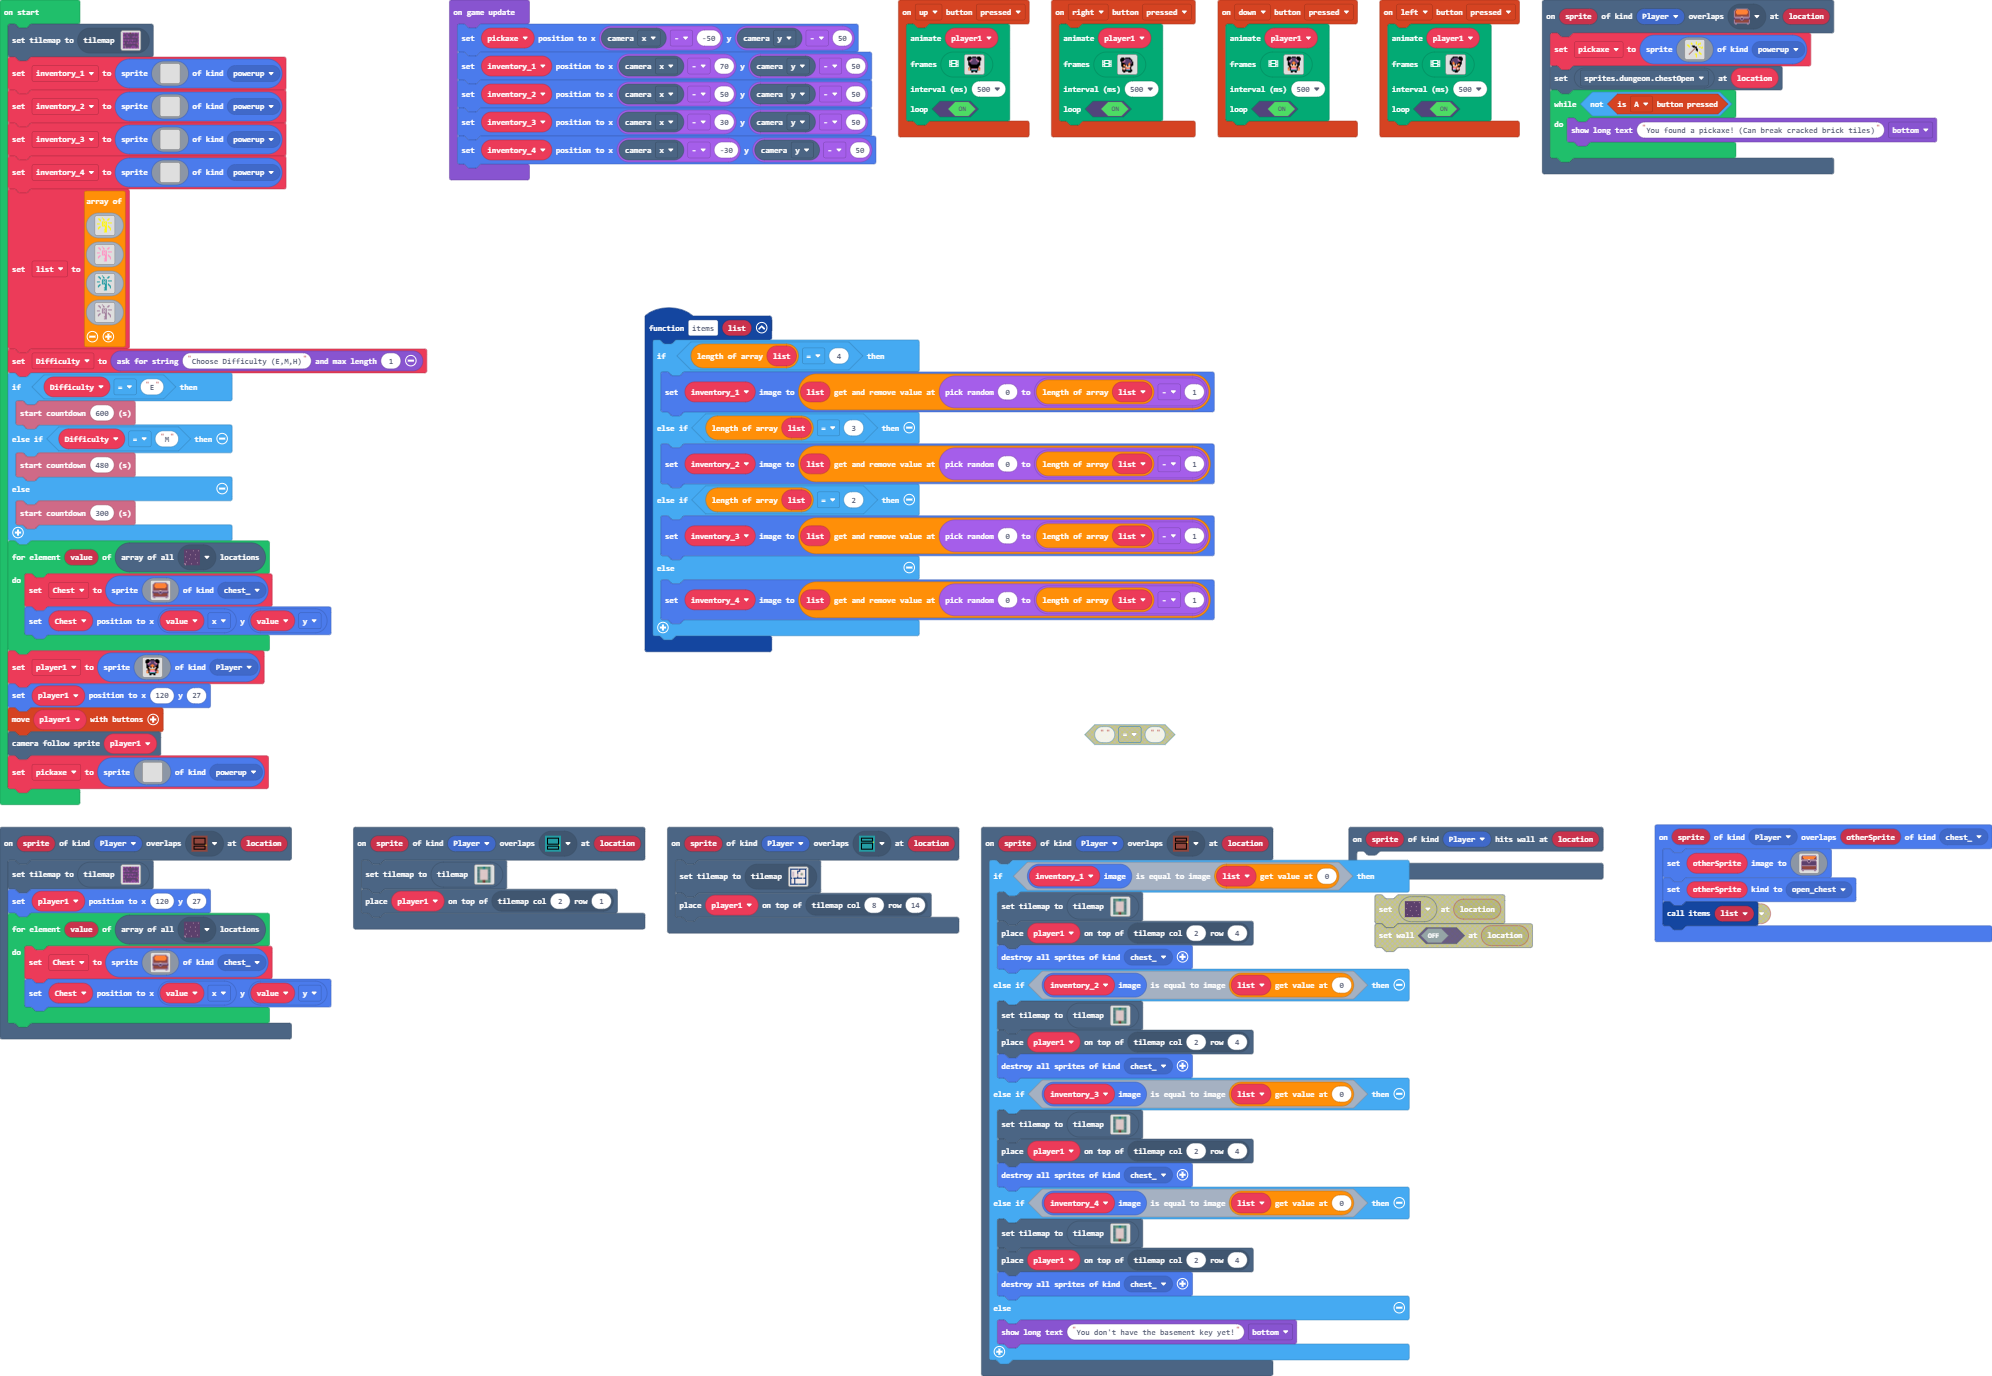
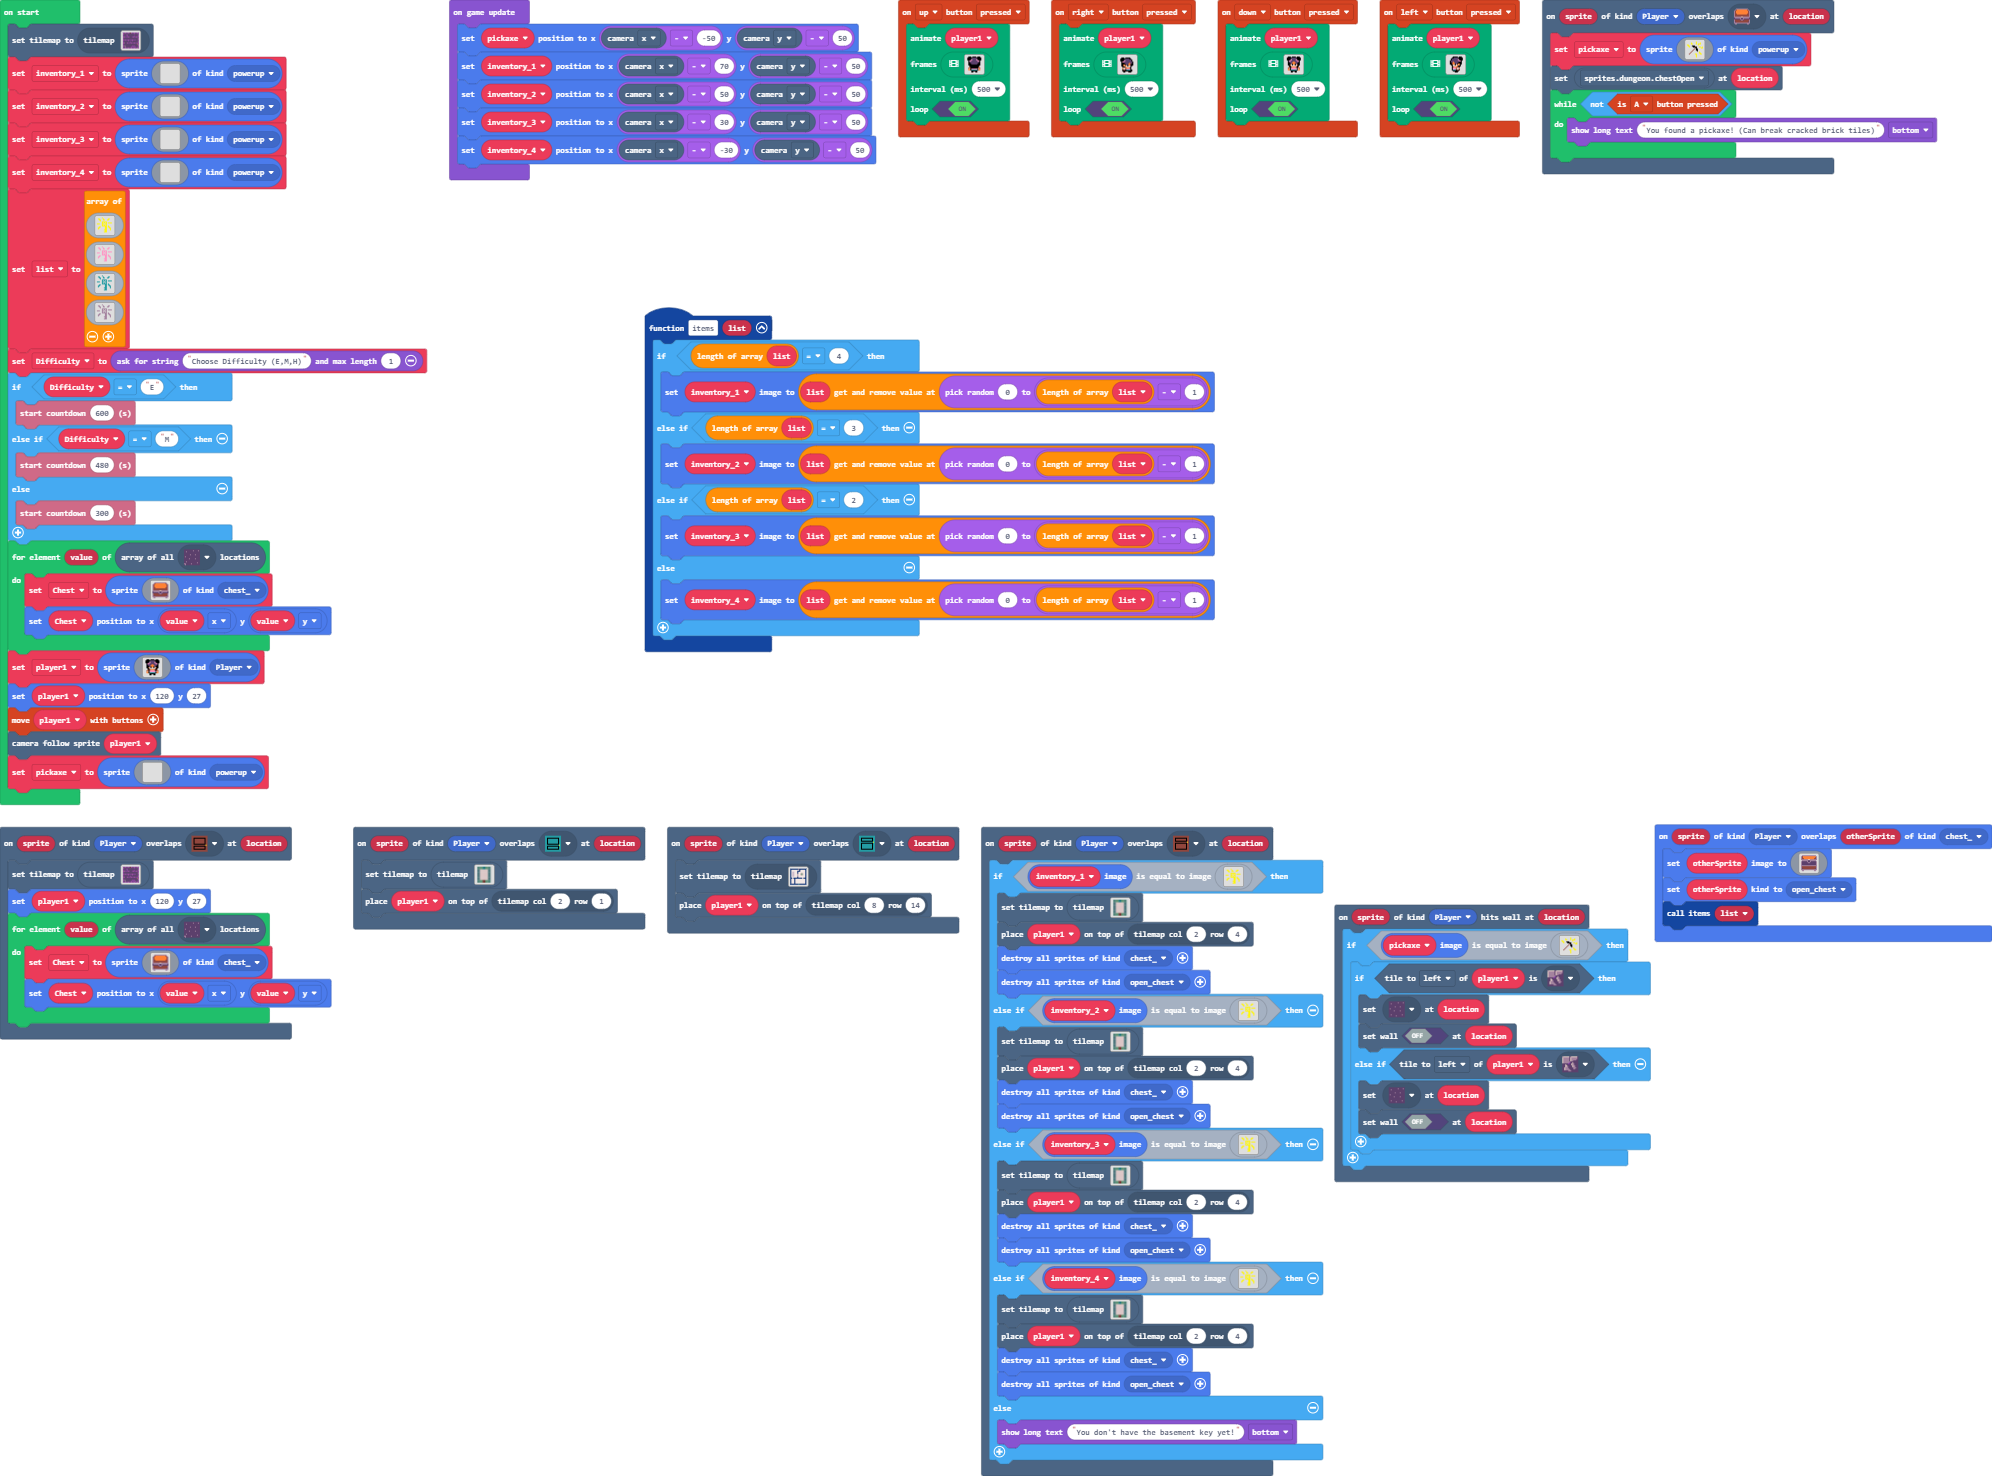
Update main.blocks, main.ts, tilemap.g.jres, tilemap.g.ts

Changed region(s): [[0.0, 0.0, 1.0, 1.0], [0.2179, 0.0, 0.9649, 0.1562], [0.3112, 0.1875, 0.6225, 0.5]]

diff --git a/tilemap.g.ts b/tilemap.g.ts
@@ -73,25 +73,6 @@ namespace myTiles {
 . . . . . . . . . . . . . . . . 
 . . . . . . . . . . . . . . . . 
 `, [myTiles.transparency16], TileScale.Sixteen);
-            case "level3":
[1 lines of base64/hex data omitted]
-2 2 2 2 2 2 2 2 . 2 2 2 2 2 2 2 
-2 . . . . . . . . 2 . . . . . 2 
-2 . . . . . . 2 2 2 . . . . . 2 
-2 . . . . . . 2 . . . . . . . 2 
-2 . . . . . . 2 . . 2 2 2 . . 2 
-2 . . . . . . 2 . . 2 2 2 . . 2 
-2 . . . . . . 2 . . 2 2 2 . . 2 
-2 . . . . . . 2 . . . . . . . 2 
-2 . . . . . . 2 . . . . . . . 2 
-2 2 . 2 2 2 2 2 2 2 2 2 . 2 2 2 
-2 . . . 2 . . . . . . . . . . 2 
-2 . . . 2 . . . . . . . . . . 2 
-2 . . . 2 . . . . . . . . . . 2 
-2 . . . 2 . . . . . . . . . . 2 
-2 . . . 2 . . . . . . . . . . 2 
-2 2 2 2 2 2 2 2 . 2 2 2 2 2 2 2 
-`, [myTiles.transparency16,myTiles.tile5,myTiles.tile6,myTiles.tile9,myTiles.tile10,sprites.dungeon.floorLight3,sprites.dungeon.floorLight2,myTiles.tile3,myTiles.tile12,myTiles.tile13,myTiles.tile14,myTiles.tile15,sprites.builtin.forestTiles0], TileScale.Sixteen);
             case "level6":
             case "level6":return tiles.createTilemap(hex`1000100000000000000000000000000000000000000000000000000000000000000000000000000000000000000000000000000000000000000000000000000000000000000000000000000000000000000000000000000000000000000000000000000000000000000000000000000000000000000000000000000000000000000000000000000000000000000000000000000000000000000000000000000000000000000000000000000000000000000000000000000000000000000000000000000000000000000000000000000000000000000000000000000000000000000000000000000000000000000000000000000000000000000000000000000000000000`, img`
 . . . . . . . . . . . . . . . . 
@@ -272,63 +253,25 @@ namespace myTiles {
 . . . . . . . . . . . . . . . . 
 . . . . . . . . . . . . . . . . 
 `, [myTiles.transparency16], TileScale.Sixteen);
-            case "level14":
-            case "level14":return tiles.createTilemap(hex`1000100000000000000000000000000000000000000000000000000000000000000000000000000000000000000000000000000000000000000000000000000000000000000000000000000000000000000000000000000000000000000000000000000000000000000000000000000000000000000000000000000000000000000000000000000000000000000000000000000000000000000000000000000000000000000000000000000000000000000000000000000000000000000000000000000000000000000000000000000000000000000000000000000000000000000000000000000000000000000000000000000000000000000000000000000000000000`, img`
-. . . . . . . . . . . . . . . . 
-. . . . . . . . . . . . . . . . 
-. . . . . . . . . . . . . . . . 
-. . . . . . . . . . . . . . . . 
-. . . . . . . . . . . . . . . . 
-. . . . . . . . . . . . . . . . 
-. . . . . . . . . . . . . . . . 
-. . . . . . . . . . . . . . . . 
-. . . . . . . . . . . . . . . . 
-. . . . . . . . . . . . . . . . 
-. . . . . . . . . . . . . . . . 
-. . . . . . . . . . . . . . . . 
-. . . . . . . . . . . . . . . . 
-. . . . . . . . . . . . . . . . 
-. . . . . . . . . . . . . . . . 
-. . . . . . . . . . . . . . . . 
-`, [myTiles.transparency16], TileScale.Sixteen);
-            case "level15":
-            case "level15":return tiles.createTilemap(hex`1000100000000000000000000000000000000000000000000000000000000000000000000000000000000000000000000000000000000000000000000000000000000000000000000000000000000000000000000000000000000000000000000000000000000000000000000000000000000000000000000000000000000000000000000000000000000000000000000000000000000000000000000000000000000000000000000000000000000000000000000000000000000000000000000000000000000000000000000000000000000000000000000000000000000000000000000000000000000000000000000000000000000000000000000000000000000000`, img`
-. . . . . . . . . . . . . . . . 
-. . . . . . . . . . . . . . . . 
-. . . . . . . . . . . . . . . . 
-. . . . . . . . . . . . . . . . 
-. . . . . . . . . . . . . . . . 
-. . . . . . . . . . . . . . . . 
-. . . . . . . . . . . . . . . . 
-. . . . . . . . . . . . . . . . 
-. . . . . . . . . . . . . . . . 
-. . . . . . . . . . . . . . . . 
-. . . . . . . . . . . . . . . . 
-. . . . . . . . . . . . . . . . 
-. . . . . . . . . . . . . . . . 
-. . . . . . . . . . . . . . . . 
-. . . . . . . . . . . . . . . . 
-. . . . . . . . . . . . . . . . 
-`, [myTiles.transparency16], TileScale.Sixteen);
-            case "level16":
-            case "level16":return tiles.createTilemap(hex`1000100000000000000000000000000000000000000000000000000000000000000000000000000000000000000000000000000000000000000000000000000000000000000000000000000000000000000000000000000000000000000000000000000000000000000000000000000000000000000000000000000000000000000000000000000000000000000000000000000000000000000000000000000000000000000000000000000000000000000000000000000000000000000000000000000000000000000000000000000000000000000000000000000000000000000000000000000000000000000000000000000000000000000000000000000000000000`, img`
-. . . . . . . . . . . . . . . . 
-. . . . . . . . . . . . . . . . 
-. . . . . . . . . . . . . . . . 
-. . . . . . . . . . . . . . . . 
-. . . . . . . . . . . . . . . . 
-. . . . . . . . . . . . . . . . 
-. . . . . . . . . . . . . . . . 
-. . . . . . . . . . . . . . . . 
-. . . . . . . . . . . . . . . . 
-. . . . . . . . . . . . . . . . 
-. . . . . . . . . . . . . . . . 
-. . . . . . . . . . . . . . . . 
-. . . . . . . . . . . . . . . . 
-. . . . . . . . . . . . . . . . 
-. . . . . . . . . . . . . . . . 
-. . . . . . . . . . . . . . . . 
-`, [myTiles.transparency16], TileScale.Sixteen);
+            case "level3":
[1 lines of base64/hex data omitted]
+2 2 2 2 2 2 2 2 . 2 2 2 2 2 2 2 
+2 . . . . . . . . 2 . . . . . 2 
+2 . . . . . . 2 2 2 . . . . . 2 
+2 . . . . . . 2 . . . . . . . 2 
+2 . . . . . . 2 . . 2 2 2 . . 2 
+2 . . . . . . 2 . . 2 2 2 . . 2 
+2 . . . . . . 2 . . 2 2 2 . . 2 
+2 . . . . . . 2 . . . . . . . 2 
+2 . . . . . . 2 . . . . . . . 2 
+2 2 . 2 2 2 2 2 2 2 2 2 . 2 2 2 
+2 . . . 2 . . . . . . . . . . 2 
+2 . . . 2 . . . . . . . . . . 2 
+2 . . . 2 . . . . . . . . . . 2 
+2 . . . 2 . . . . . . . . . . 2 
+2 . . . 2 . . . . . . . . . . 2 
+2 2 2 2 2 2 2 2 . 2 2 2 2 2 2 2 
+`, [myTiles.transparency16,myTiles.tile5,myTiles.tile6,myTiles.tile9,myTiles.tile10,sprites.dungeon.floorLight2,myTiles.tile3,myTiles.tile12,myTiles.tile13,myTiles.tile14,myTiles.tile15,sprites.builtin.forestTiles0,sprites.dungeon.floorLight3], TileScale.Sixteen);
         }
         return null;
     })

diff --git a/main.ts b/main.ts
@@ -88,25 +88,122 @@ controller.up.onEvent(ControllerButtonEvent.Pressed, function () {
     )
 })
 scene.onHitWall(SpriteKind.Player, function (sprite, location) {
-	
+    if (pickaxe.image.equals(img`
+        . . . . . . . . . 5 . . . . . . 
+        . . . . 5 . . . . 5 . . . 5 . . 
+        . . . . 5 5 . . . 5 . 5 5 5 . . 
+        5 5 . . . . . . . . . 5 . . . . 
+        . 5 5 . . f f f . . . . . . . . 
+        . . 5 . . . f f f f . . 5 5 . 5 
+        . . . . . . . . e f . . . . 5 5 
+        . . . . . . . e . f f . . . . . 
+        . . . . . . e . . f f . . . . . 
+        . . . . . e . . . . f . . . . . 
+        . . . . e . . . . . . . 5 . . . 
+        . . . e . . . . . . . . 5 5 . . 
+        . . e . . . . . 5 5 . . . 5 5 . 
+        . . . . . . . . . 5 . . . . . . 
+        . . . . . . . . . 5 . . . . . . 
+        . . . . . . . . . 5 . . . . . . 
+        `)) {
+        if (player1.tileKindAt(TileDirection.Left, sprites.dungeon.floorDark3)) {
+            tiles.setTileAt(location, sprites.dungeon.darkGroundCenter)
+            tiles.setWallAt(location, false)
+        } else if (player1.tileKindAt(TileDirection.Left, sprites.dungeon.floorDark3)) {
+            tiles.setTileAt(location, sprites.dungeon.darkGroundCenter)
+            tiles.setWallAt(location, false)
+        }
+    }
 })
 scene.onOverlapTile(SpriteKind.Player, assets.tile`myTile`, function (sprite, location) {
-    if (inventory_1.image.equals(list[0])) {
+    if (inventory_1.image.equals(img`
+        . . . . . 5 . . . . . . . . . . 
+        . 5 5 . . . 5 . . . . 5 5 . . . 
+        . . 5 5 . . 5 5 . . 5 5 . . . . 
+        . . . 5 . . . . . . . . . . . . 
+        . . . . . 5 5 5 5 5 . . . . . . 
+        . . . . . 5 . 5 . 5 . 5 5 5 5 . 
+        5 5 5 . . 5 5 . 5 5 . . . . . . 
+        . . . . . 5 . 5 . 5 . . . . . . 
+        . . . . . 5 5 5 5 5 . 5 . . . . 
+        . . 5 5 . . . . 5 5 . 5 5 . . . 
+        . 5 5 . . . . . 5 5 . . 5 5 . . 
+        . 5 . . . . . . 5 5 . . . 5 . . 
+        . . . . . . . 5 5 5 . . . 5 . . 
+        . . . . . . . . 5 5 . . . . . . 
+        . . . . . . . 5 5 5 . . . . . . 
+        . . . . . . . . . . . . . . . . 
+        `)) {
         tiles.setCurrentTilemap(tilemap`level5`)
         tiles.placeOnTile(player1, tiles.getTileLocation(2, 4))
         sprites.destroyAllSpritesOfKind(SpriteKind.chest_)
-    } else if (inventory_2.image.equals(list[0])) {
+        sprites.destroyAllSpritesOfKind(SpriteKind.open_chest)
+    } else if (inventory_2.image.equals(img`
+        . . . . . 5 . . . . . . . . . . 
+        . 5 5 . . . 5 . . . . 5 5 . . . 
+        . . 5 5 . . 5 5 . . 5 5 . . . . 
+        . . . 5 . . . . . . . . . . . . 
+        . . . . . 5 5 5 5 5 . . . . . . 
+        . . . . . 5 . 5 . 5 . 5 5 5 5 . 
+        5 5 5 . . 5 5 . 5 5 . . . . . . 
+        . . . . . 5 . 5 . 5 . . . . . . 
+        . . . . . 5 5 5 5 5 . 5 . . . . 
+        . . 5 5 . . . . 5 5 . 5 5 . . . 
+        . 5 5 . . . . . 5 5 . . 5 5 . . 
+        . 5 . . . . . . 5 5 . . . 5 . . 
+        . . . . . . . 5 5 5 . . . 5 . . 
+        . . . . . . . . 5 5 . . . . . . 
+        . . . . . . . 5 5 5 . . . . . . 
+        . . . . . . . . . . . . . . . . 
+        `)) {
         tiles.setCurrentTilemap(tilemap`level5`)
         tiles.placeOnTile(player1, tiles.getTileLocation(2, 4))
         sprites.destroyAllSpritesOfKind(SpriteKind.chest_)
-    } else if (inventory_3.image.equals(list[0])) {
+        sprites.destroyAllSpritesOfKind(SpriteKind.open_chest)
+    } else if (inventory_3.image.equals(img`
+        . . . . . 5 . . . . . . . . . . 
+        . 5 5 . . . 5 . . . . 5 5 . . . 
+        . . 5 5 . . 5 5 . . 5 5 . . . . 
+        . . . 5 . . . . . . . . . . . . 
+        . . . . . 5 5 5 5 5 . . . . . . 
+        . . . . . 5 . 5 . 5 . 5 5 5 5 . 
+        5 5 5 . . 5 5 . 5 5 . . . . . . 
+        . . . . . 5 . 5 . 5 . . . . . . 
+        . . . . . 5 5 5 5 5 . 5 . . . . 
+        . . 5 5 . . . . 5 5 . 5 5 . . . 
+        . 5 5 . . . . . 5 5 . . 5 5 . . 
+        . 5 . . . . . . 5 5 . . . 5 . . 
+        . . . . . . . 5 5 5 . . . 5 . . 
+        . . . . . . . . 5 5 . . . . . . 
+        . . . . . . . 5 5 5 . . . . . . 
+        . . . . . . . . . . . . . . . . 
+        `)) {
         tiles.setCurrentTilemap(tilemap`level5`)
         tiles.placeOnTile(player1, tiles.getTileLocation(2, 4))
         sprites.destroyAllSpritesOfKind(SpriteKind.chest_)
-    } else if (inventory_4.image.equals(list[0])) {
+        sprites.destroyAllSpritesOfKind(SpriteKind.open_chest)
+    } else if (inventory_4.image.equals(img`
+        . . . . . 5 . . . . . . . . . . 
+        . 5 5 . . . 5 . . . . 5 5 . . . 
+        . . 5 5 . . 5 5 . . 5 5 . . . . 
+        . . . 5 . . . . . . . . . . . . 
+        . . . . . 5 5 5 5 5 . . . . . . 
+        . . . . . 5 . 5 . 5 . 5 5 5 5 . 
+        5 5 5 . . 5 5 . 5 5 . . . . . . 
+        . . . . . 5 . 5 . 5 . . . . . . 
+        . . . . . 5 5 5 5 5 . 5 . . . . 
+        . . 5 5 . . . . 5 5 . 5 5 . . . 
+        . 5 5 . . . . . 5 5 . . 5 5 . . 
+        . 5 . . . . . . 5 5 . . . 5 . . 
+        . . . . . . . 5 5 5 . . . 5 . . 
+        . . . . . . . . 5 5 . . . . . . 
+        . . . . . . . 5 5 5 . . . . . . 
+        . . . . . . . . . . . . . . . . 
+        `)) {
         tiles.setCurrentTilemap(tilemap`level5`)
         tiles.placeOnTile(player1, tiles.getTileLocation(2, 4))
         sprites.destroyAllSpritesOfKind(SpriteKind.chest_)
+        sprites.destroyAllSpritesOfKind(SpriteKind.open_chest)
     } else {
         game.showLongText("You don't have the basement key yet!", DialogLayout.Bottom)
     }
